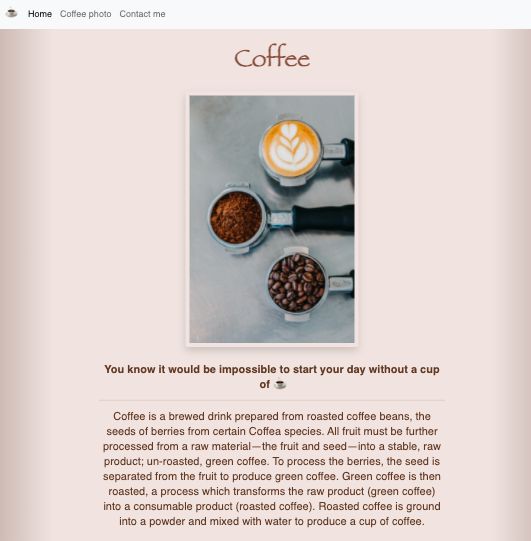
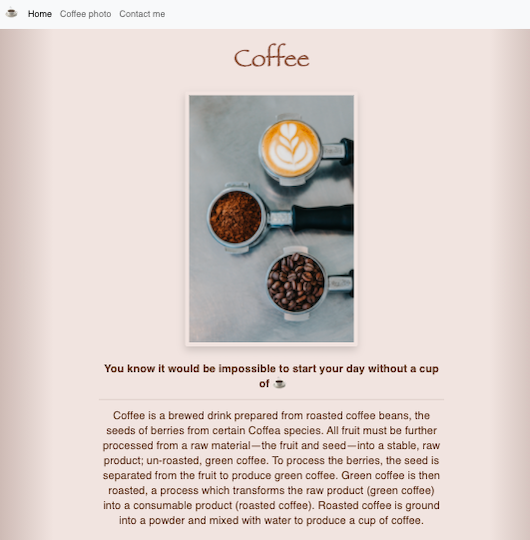
photos

diff --git a/src/styles.css b/src/styles.css
@@ -47,6 +47,9 @@ p {
   margin: 0;
   color: #272142;
 }
+.rounded {
+  border-radius: 1.25rem;
+}
 
 .hero h2 {
   font-family: var(--heading-font-family);
